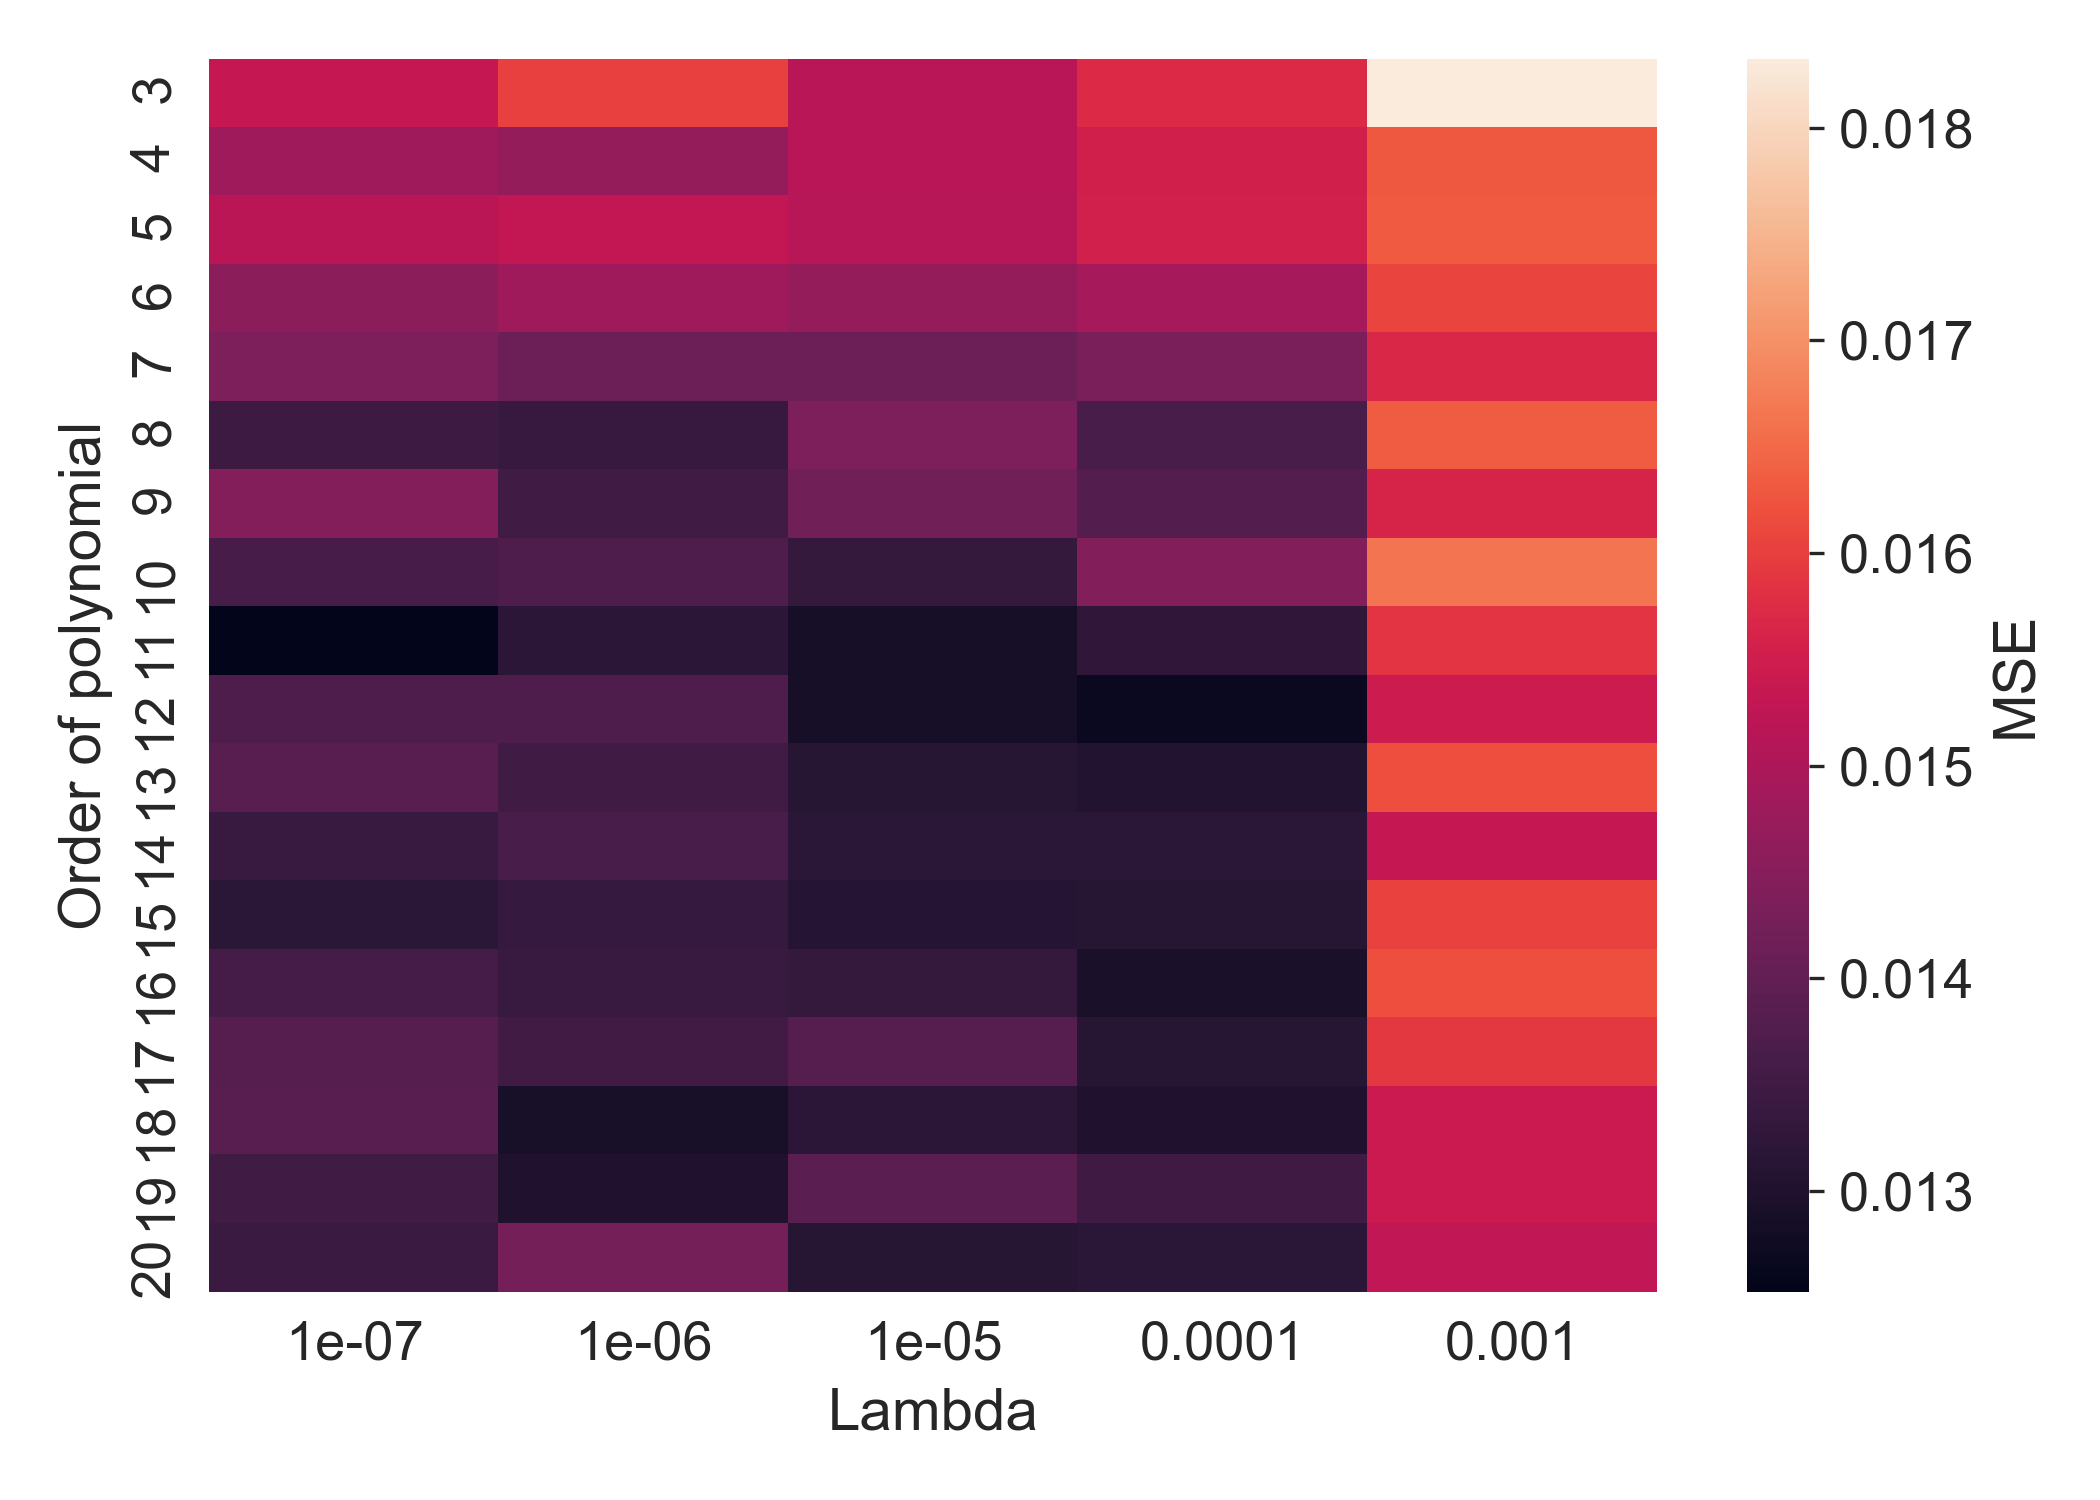
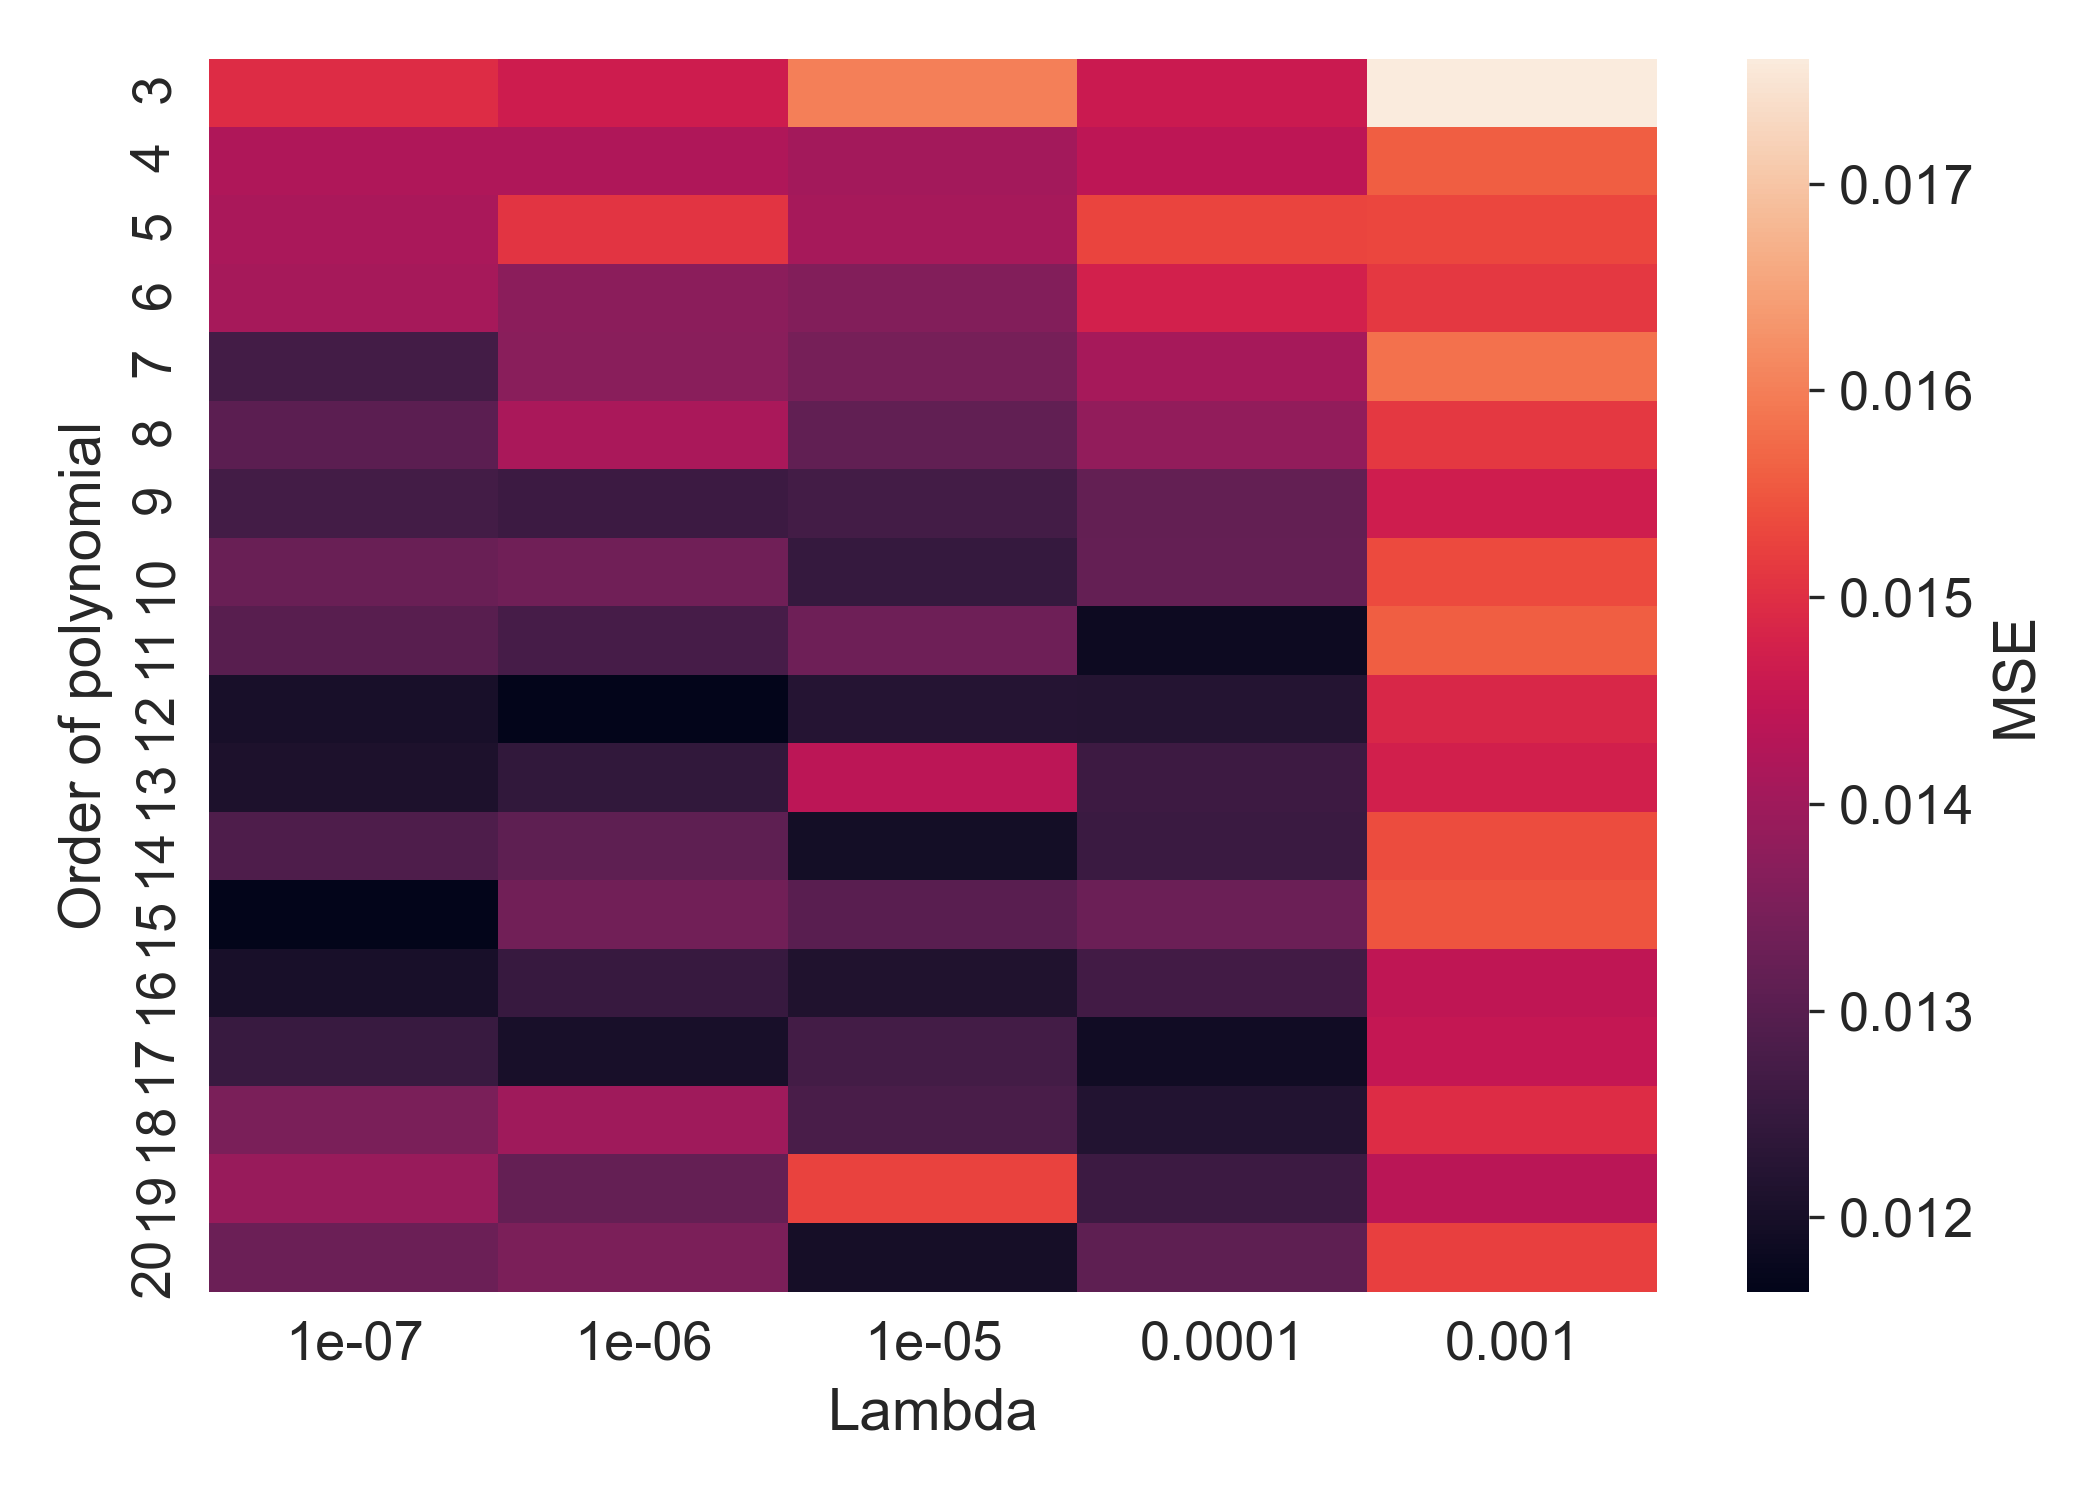
Update

diff --git a/PROJECT1/main.py b/PROJECT1/main.py
@@ -45,12 +45,12 @@ def generate_reults(showfigs = False):
     maxdeg_ = 10
     degrees_list, MSE_train_list, MSE_test_list, bias, variance, beta_matrix, R2_train_list, R2_test_list, z_pred \
     = Solver(x_, y_, z_, Nx_, Ny_, OLS, lamb = 0, useBootstrap=True, useCrossval=False, maxdegree = maxdeg_)
-    plotfnc.bias_var_plot(degrees_list, bias, variance, MSE_test_list,  savefig = True)
+    plotfnc.bias_var_plot(degrees_list, bias, variance, MSE_test_list, savename = "biasvar_bootOLS",  savefig = True)
 
     #(4)COMPARISON BETWEEN ESTIMATES OF MSE IN CROSSVAL AND BOOTSTRAP, OLS. 2 plots to reuse plotting func
     #Bootstrap value goes a bit crazy for higher complexity which used to a problem which i thought was fixed
     print("Plotting MSE for OLS w/boot and w/crossval.")
-    maxdeg = 8
+    maxdeg = 15
     MSE_list_train = []
     MSE_list_test = []
     titles = ["MSE Bootstrap", "MSE Crossval"]
@@ -80,7 +80,6 @@ def generate_reults(showfigs = False):
         Solver(x_, y_, z_, Nx_, Ny_, Ridge, useBootstrap=False, useCrossval=True, lamb=lambda_vals[i], mindegree = mindeg, maxdegree = maxdeg)
         for j in range(maxdeg-mindeg+1):
             MSE_2d[j,i] = MSE_test_list[j] #fix indexing cause of length
-
     plotfnc.gridsearch_plot(MSE_2d, lambda_vals, mindeg, maxdeg, savename="Ridge_crossval_grid", savefig = True)
 
     maxdeg = 20
@@ -93,7 +92,6 @@ def generate_reults(showfigs = False):
         Solver(x_, y_, z_, Nx_, Ny_, method, useBootstrap=False, useCrossval=True, lamb=lambda_vals[i], mindegree = mindeg, maxdegree = maxdeg)
         for j in range(maxdeg-mindeg+1):
             MSE_2d[j,i] = MSE_test_list[j] #fix indexing cause of length
-
     plotfnc.gridsearch_plot(MSE_2d, lambda_vals, mindeg, maxdeg, savename="Lasso_crossval_grid", savefig = True)
 
 
@@ -110,7 +108,6 @@ def generate_reults(showfigs = False):
         Solver(x_, y_, z_, Nx_, Ny_, Ridge, useBootstrap=False, useCrossval=False, lamb=lambda_vals[i], mindegree = mindeg, maxdegree = maxdeg)
         for j in range(maxdeg-mindeg+1):
             MSE_2d[j,i] = MSE_test_list[j] #fix indexing cause of length
-
     plotfnc.gridsearch_plot(MSE_2d, lambda_vals, mindeg, maxdeg, savename="Ridge_grid", savefig = True)
 
     maxdeg = 14
@@ -123,11 +120,11 @@ def generate_reults(showfigs = False):
         Solver(x_, y_, z_, Nx_, Ny_, method, useBootstrap=False, useCrossval=False, lamb=lambda_vals[i], mindegree = mindeg, maxdegree = maxdeg)
         for j in range(maxdeg-mindeg+1):
             MSE_2d[j,i] = MSE_test_list[j] #fix indexing cause of length
-
     plotfnc.gridsearch_plot(MSE_2d, lambda_vals, mindeg, maxdeg, savename="Lasso_grid", savefig = True)
 
-    #7 [2 figures, or 1 figure with 2 axis side by side]
-    #BIAS-VARIANCE TRADEOFF, AS FUNCTION OF POLYDEG USING ONLY BOOTSTRAP,for both RIDGE AND LASSO
+
+    """
+    #7 Bias variance tradeoff. Using ridge and lasso, both with bootstrap.
     print("Plotting bias-variance bootstrapped ridge and lasso.")
     lambda_vals = np.logspace(-2, 0, 3)
     ridge = []
@@ -146,7 +143,7 @@ def generate_reults(showfigs = False):
         lasso.append([MSE_test_list, bias, variance])
 
     plotfnc.bias_var_lambdas(degrees_list, ridge, lasso, lambda_vals, savefig=True)
-
+    """
     if showfigs:
         plt.show()
 

diff --git a/PROJECT1/src/plotting_functions.py b/PROJECT1/src/plotting_functions.py
@@ -74,19 +74,18 @@ def MSE_R2_plot(degrees_list, MSE_train_list, MSE_test_list, R2_train_list, R2_t
         plt.savefig(f"{path}/MSER2_OLS.png", dpi = 300)
     return
 
-def bias_var_plot(degrees_list, bias, variance, MSE_test_list, title = "BiasVar", savefig = False, path = "./Plots/BiasVar"):
+def bias_var_plot(degrees_list, bias, variance, MSE_test_list, savename = "biasvar", savefig = False, path = "./Plots/BiasVar"):
     pathlib.Path(path).mkdir(parents=True, exist_ok=True)
     plt.figure(figsize=(7,5), tight_layout=True)
-    plt.title(f"{title}")
     plt.plot(degrees_list, bias, label = "Bias", color = colorpal[0])
     plt.plot(degrees_list, variance, label = "Variance", color = colorpal[1])
-    plt.plot(degrees_list, MSE_test_list, label = "MSE Error", color = colorpal[2])
+    plt.plot(degrees_list, MSE_test_list, label = "MSE", color = colorpal[2])
     plt.xlabel("Order of polynomial")
     plt.ylabel("Numerical estimate")
     plt.grid(True)
     plt.legend()
     if savefig:
-        plt.savefig(f"{path}/{title}.png", dpi = 300)
+        plt.savefig(f"{path}/{savename}.png", dpi = 300)
     return
 
 def bias_var_lambdas(degrees_list, lists , lambdas, title = "BiasVar", savefig = False, savename = "fig", path = "./Plots/BiasVar"):
@@ -94,7 +93,6 @@ def bias_var_lambdas(degrees_list, lists , lambdas, title = "BiasVar", savefig =
     linestyles = ["solid", "dotted", "dashed", "dashdot"]
     methods = ['Ridge', 'Lasso']
     for i in range(2):
-
         for j in range(len(lambdas)):
             axs[i].plot(degrees_list, lists[i][j][0], label = f"$\\lambda$={lambdas[j]}", linestyle=linestyles[0], color = colorpal[j])
             axs[i].plot(degrees_list, lists[i][j][1], linestyle=linestyles[1], color = colorpal[j])
@@ -103,7 +101,7 @@ def bias_var_lambdas(degrees_list, lists , lambdas, title = "BiasVar", savefig =
         axs[i].set_xlabel("Order of polynomial")
         axs[i].set_yscale("log")
 
-        axs[i].set_title(methods[i])    
+        axs[i].set_title(methods[i])
 
     if savefig:
         plt.savefig(f"{path}/{title}.png", dpi = 300)

diff --git a/PROJECT1/src/franke_fit.py b/PROJECT1/src/franke_fit.py
@@ -100,13 +100,6 @@ def Solver(x, y, z, Nx, Ny, method, lamb = 0, useBootstrap = False, useCrossval 
 	beta_matrix = np.zeros( ( (maxdegree+1)*(maxdegree+2)//2, maxdegree-mindegree+1 ) )
 
 
-	#Print info when run
-	print(f"Running solver with {method.__name__}. Degrees: {maxdegree}.", end = "")
-	if useBootstrap:
-		print("Using bootstrap ", end ="")
-	elif useCrossval:
-		print(f"Using 5-fold cross validation .")
-
 	if showruninfo:
 		#Print info when run
 		print(f"Running solver with {method.__name__}. Degrees: {maxdegree}.", end = "")
@@ -116,6 +109,7 @@ def Solver(x, y, z, Nx, Ny, method, lamb = 0, useBootstrap = False, useCrossval 
 			print(f"Using 5-fold cross validation .")
 
 		print("\n")
+
 	#Check if correct input
 	if method not in [OLS, Ridge, Lasso, Ridge_scikit]:
 		sys.exit(f"Error: Method [{method}] is not compatible. Must be in [OLS, Ridge, Lasso]")
@@ -156,7 +150,7 @@ def Solver(x, y, z, Nx, Ny, method, lamb = 0, useBootstrap = False, useCrossval 
 					beta_opt, z_tilde_train, z_tilde_test = method(X_train_b, X_test, z_train_b, lamb)
 				MSE_avg_train += utils.MSE(z_train_b , z_tilde_train)
 				MSE_avg_test += utils.MSE(z_test, z_tilde_test)
-				z_pred[:,i:i+1] = z_tilde_test.reshape(-1,1) #had to add this for it to work when doing multiple lambdas
+				z_pred[:,i:i+1] = z_tilde_test #had to add this for it to work when doing multiple lambdas
 
 			MSE_test=MSE_avg_test/N_bootstraps
 			MSE_train=MSE_avg_train/N_bootstraps
@@ -174,7 +168,7 @@ def Solver(x, y, z, Nx, Ny, method, lamb = 0, useBootstrap = False, useCrossval 
 			# Seperate data into k folds
 			k = 5
 			kfold = KFold(n_splits = k, shuffle = True)
-			for train_inds, test_inds in kfold.split(X):
+			for train_inds, test_inds in kfold.split(X_train):
 				X_train, X_test = X[train_inds], X[test_inds]
 				z_train, z_test = z[train_inds], z[test_inds]
 				if degree==0:
